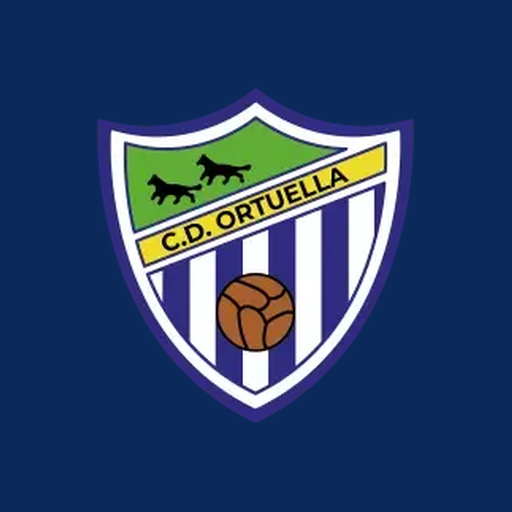
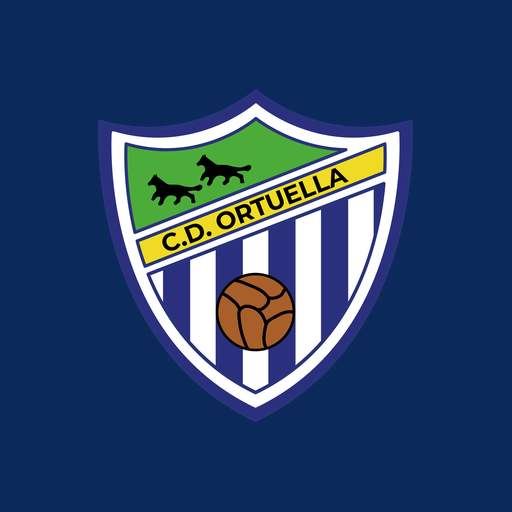
Escudo en alta calidad y patrocinadores de Instagram en la web
- Escudo, favicon, iconos del móvil y vista previa al compartir rehechos con el escudo en alta
  calidad de las plantillas de Canva (mismos nombres de archivo).
- Patrocinadores: se añaden Tesoralia, Euskadi LowCost, Restaurante Sukalde e Irish Pub Black &
  White, con sus logos de la banda de Canva; se mantienen los que ya había.

Claude-Session: https://claude.ai/code/session_01HGhHxNaaRD1kMFHjNqCnKz

Changed region(s): [[0.1875, 0.1875, 0.8125, 0.8125]]

diff --git a/datos.js b/datos.js
@@ -187,10 +187,15 @@ window.CLUB = {
     { nombre: "Pin del escudo", precio: null, foto: "img/pin.jpg" }
   ],
 
-  // Patrocinadores y colaboradores (los mismos que la web antigua del club + Markofer).
+  // Patrocinadores y colaboradores: los de la web antigua del club + los que salen en las
+  // publicaciones de Instagram (logos sacados de las plantillas de Canva, redes/canva/).
   // logo: null -> sale el nombre en una ficha hasta tener el logo bueno.
   patrocinadores: [
+    { nombre: "Tesoralia", detalle: null, logo: "img/patrocinadores/tesoralia.webp", web: null },
     { nombre: "Markofer", detalle: "Montajes y mantenimientos", logo: "img/markofer.webp", web: null },
+    { nombre: "Euskadi LowCost", detalle: null, logo: "img/patrocinadores/euskadi-lowcost.webp", web: null },
+    { nombre: "Restaurante Sukalde", detalle: "Restaurante", logo: "img/patrocinadores/sukalde.webp", web: null },
+    { nombre: "Irish Pub Black & White", detalle: "Irish pub · desde 1991", logo: "img/patrocinadores/irish-pub.webp", web: null },
     { nombre: "Academia Siglo XXIII", detalle: "Academia · Ortuella", logo: null, web: null },
     { nombre: "Andamios y Montacargas Europa", detalle: "Andamios · Ortuella", logo: "img/patrocinadores/andamios-europa.webp", web: null }
   ],

diff --git a/equipos.html b/equipos.html
@@ -42,7 +42,7 @@
 <div id="teamView"></div>
 </main>
 <div id="pie"></div>
-<script src="datos.js?v=d95be1c1"></script>
+<script src="datos.js?v=5ac0fd3a"></script>
 <script src="datos-federacion.js"></script>
 <script src="comun.js?v=5b78c12d"></script>
 <!-- Contador de visitas anónimo, sin cookies. Panel privado: https://cdortuella.goatcounter.com -->

diff --git a/index.html b/index.html
@@ -111,7 +111,7 @@
 </section>
 </main>
 <div id="pie"></div>
-<script src="datos.js?v=d95be1c1"></script>
+<script src="datos.js?v=5ac0fd3a"></script>
 <script src="datos-federacion.js"></script>
 <script src="comun.js?v=5b78c12d"></script>
 <!-- Contador de visitas anónimo, sin cookies. Panel privado: https://cdortuella.goatcounter.com -->

diff --git a/404.html b/404.html
@@ -46,7 +46,7 @@
 </section>
 </main>
 <div id="pie"></div>
-<script src="datos.js?v=d95be1c1"></script>
+<script src="datos.js?v=5ac0fd3a"></script>
 <script src="datos-federacion.js"></script>
 <script src="comun.js?v=5b78c12d"></script>
 <!-- Contador de visitas anónimo, sin cookies. Panel privado: https://cdortuella.goatcounter.com -->

diff --git a/aviso-legal.html b/aviso-legal.html
@@ -68,7 +68,7 @@
 </section>
 </main>
 <div id="pie"></div>
-<script src="datos.js?v=d95be1c1"></script>
+<script src="datos.js?v=5ac0fd3a"></script>
 <script src="datos-federacion.js"></script>
 <script src="comun.js?v=5b78c12d"></script>
 <!-- Contador de visitas anónimo, sin cookies. Panel privado: https://cdortuella.goatcounter.com -->

diff --git a/campo.html b/campo.html
@@ -64,7 +64,7 @@
 </section>
 </main>
 <div id="pie"></div>
-<script src="datos.js?v=d95be1c1"></script>
+<script src="datos.js?v=5ac0fd3a"></script>
 <script src="datos-federacion.js"></script>
 <script src="comun.js?v=5b78c12d"></script>
 <!-- Contador de visitas anónimo, sin cookies. Panel privado: https://cdortuella.goatcounter.com -->

diff --git a/contacto.html b/contacto.html
@@ -66,7 +66,7 @@
 </section>
 </main>
 <div id="pie"></div>
-<script src="datos.js?v=d95be1c1"></script>
+<script src="datos.js?v=5ac0fd3a"></script>
 <script src="datos-federacion.js"></script>
 <script src="comun.js?v=5b78c12d"></script>
 <!-- Contador de visitas anónimo, sin cookies. Panel privado: https://cdortuella.goatcounter.com -->

diff --git a/directiva.html b/directiva.html
@@ -48,7 +48,7 @@
 </section>
 </main>
 <div id="pie"></div>
-<script src="datos.js?v=d95be1c1"></script>
+<script src="datos.js?v=5ac0fd3a"></script>
 <script src="datos-federacion.js"></script>
 <script src="comun.js?v=5b78c12d"></script>
 <!-- Contador de visitas anónimo, sin cookies. Panel privado: https://cdortuella.goatcounter.com -->

diff --git a/historia.html b/historia.html
@@ -96,7 +96,7 @@
 </section>
 </main>
 <div id="pie"></div>
-<script src="datos.js?v=d95be1c1"></script>
+<script src="datos.js?v=5ac0fd3a"></script>
 <script src="datos-federacion.js"></script>
 <script src="comun.js?v=5b78c12d"></script>
 <!-- Contador de visitas anónimo, sin cookies. Panel privado: https://cdortuella.goatcounter.com -->

diff --git a/noticias.html b/noticias.html
@@ -44,7 +44,7 @@
 </section>
 </main>
 <div id="pie"></div>
-<script src="datos.js?v=d95be1c1"></script>
+<script src="datos.js?v=5ac0fd3a"></script>
 <script src="datos-federacion.js"></script>
 <script src="comun.js?v=5b78c12d"></script>
 <!-- Contador de visitas anónimo, sin cookies. Panel privado: https://cdortuella.goatcounter.com -->

diff --git a/partido.html b/partido.html
@@ -42,7 +42,7 @@
 </section>
 </main>
 <div id="pie"></div>
-<script src="datos.js?v=d95be1c1"></script>
+<script src="datos.js?v=5ac0fd3a"></script>
 <script src="datos-federacion.js"></script>
 <script src="comun.js?v=5b78c12d"></script>
 <!-- Contador de visitas anónimo, sin cookies. Panel privado: https://cdortuella.goatcounter.com -->

diff --git a/partidos.html b/partidos.html
@@ -72,7 +72,7 @@
 </section>
 </main>
 <div id="pie"></div>
-<script src="datos.js?v=d95be1c1"></script>
+<script src="datos.js?v=5ac0fd3a"></script>
 <script src="datos-federacion.js"></script>
 <script src="comun.js?v=5b78c12d"></script>
 <!-- Contador de visitas anónimo, sin cookies. Panel privado: https://cdortuella.goatcounter.com -->
